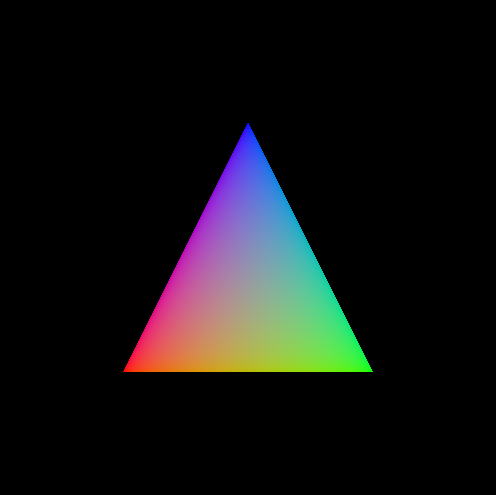
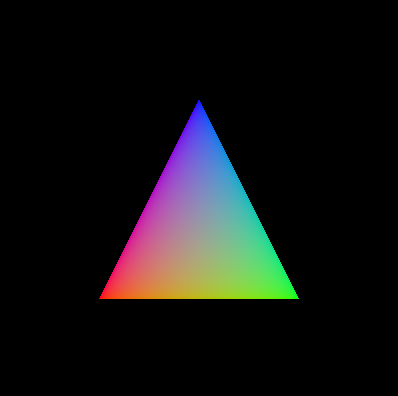
Update readme

diff --git a/examples/triangle/src/main.rs b/examples/triangle/src/main.rs
@@ -17,8 +17,8 @@ fn main() {
     dunge::make_window(InitialState {
         title: "Triangle",
         mode: WindowMode::Windowed {
-            width: 500,
-            height: 500,
+            width: 400,
+            height: 400,
         },
         ..Default::default()
     })

diff --git a/README.md b/README.md
@@ -118,6 +118,7 @@ cargo run
 ```
 
 Now you should see something like [this](https://github.com/nanoqsh/dunge/tree/main/examples/triangle/screen.png)
+
 ![triangle](./examples/triangle/screen.png)
 
 ## Examples
